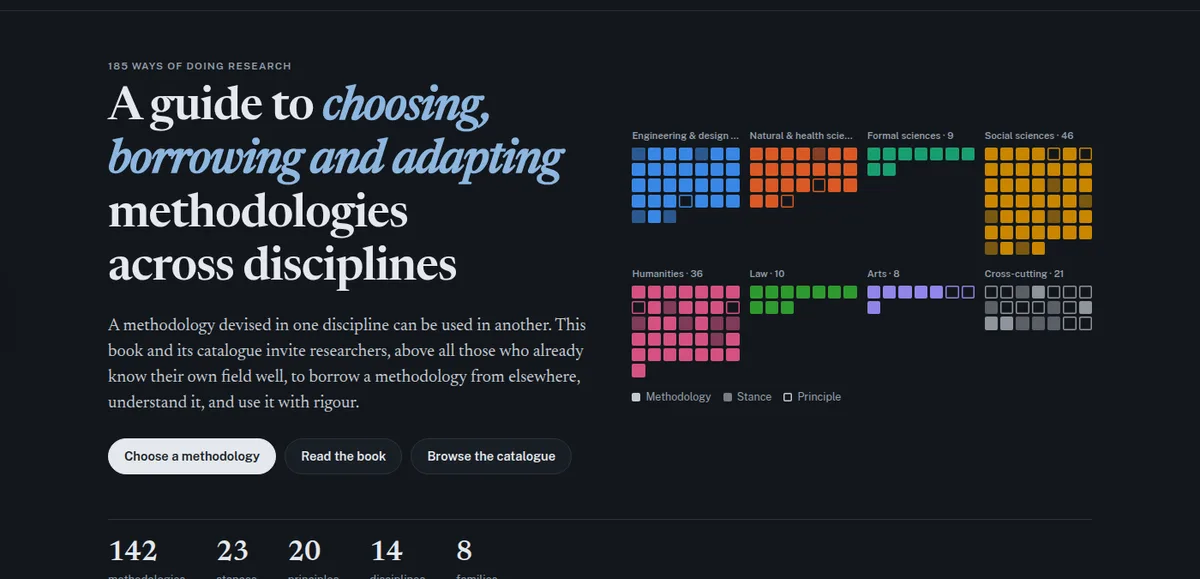
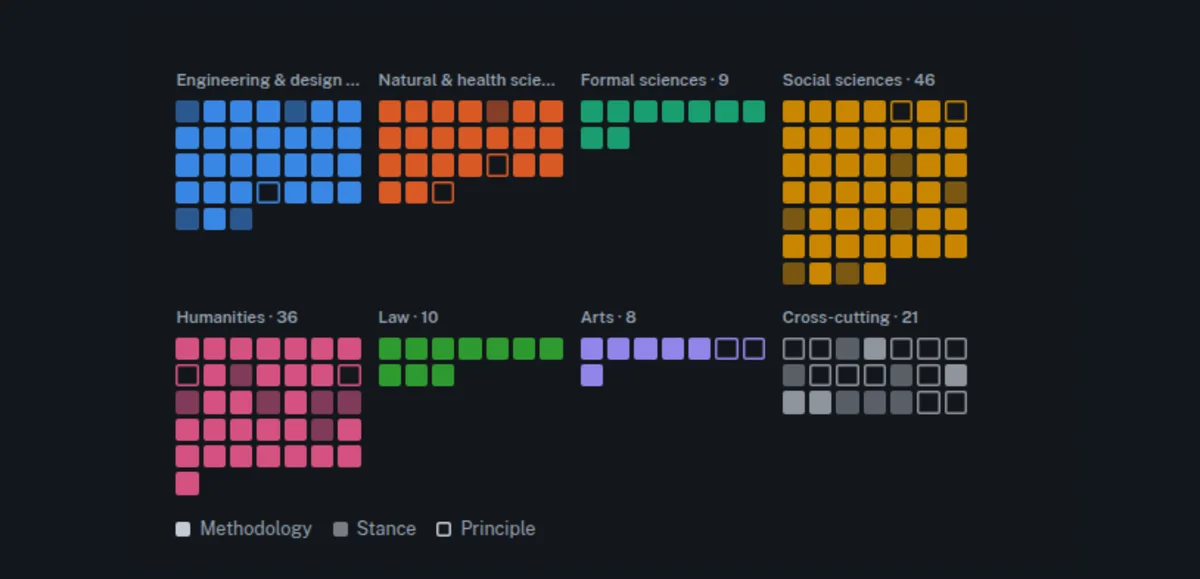
Refina la targeta de Transmethodologies

Changed region(s): [[0.0925, 0.0933, 0.925, 0.8705], [0.0925, 0.9016, 0.4625, 1.0], [0.185, 0.9948, 0.2775, 1.0]]

diff --git a/index.html b/index.html
@@ -82,11 +82,11 @@
       <main>
 	<div class="grid" >
 	<div id="transmethodologies" class="transmethodologies grid-item">
-		<a class="featured-media" title="Transmethodologies: a guide to choosing, borrowing and adapting methodologies across disciplines (2026)" href="https://transm.nualart.cat/">
-			<img src="/imgs/transmethodologies.webp" alt="Transmethodologies homepage with a guide to borrowing methodologies and a colourful catalogue mosaic">
+		<a class="featured-media" title="Transmethodologies: A guide to choosing, borrowing and adapting methodologies across disciplines" href="https://transm.nualart.cat/">
+			<img src="/imgs/transmethodologies.webp" alt="Colour-coded mosaic of 185 methodologies grouped into eight disciplinary families">
 		</a>
 		<div class="post-header">
-			<h2 class="post-title"><a href="https://transm.nualart.cat/" title="Transmethodologies: a guide to choosing, borrowing and adapting methodologies across disciplines (2026)">Transmethodologies: a guide to choosing, borrowing and adapting methodologies across disciplines (2026)</a></h2>
+			<h2 class="post-title"><a href="https://transm.nualart.cat/" title="Transmethodologies: A guide to choosing, borrowing and adapting methodologies across disciplines">Transmethodologies: A guide to choosing, borrowing and adapting methodologies across disciplines</a></h2>
 		</div> <!-- /post-header -->
 	</div> <!-- /post -->
 
